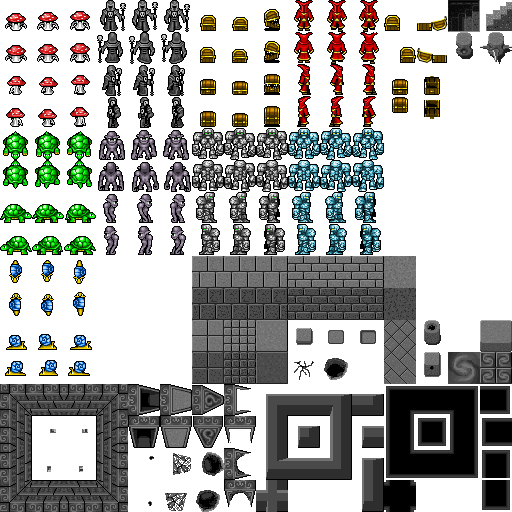
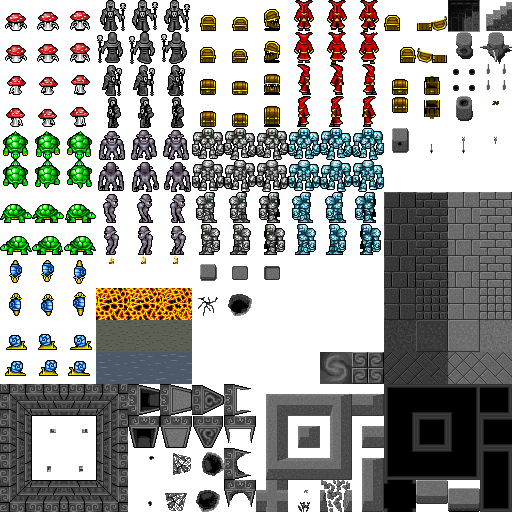
improvements and additions to underworld load

Changed region(s): [[0.1875, 0.375, 1.0, 1.0], [0.875, 0.125, 1.0, 0.25], [0.75, 0.25, 0.8125, 0.3125]]

diff --git a/README.md b/README.md
@@ -8,7 +8,10 @@ Minimal Game Engine for Pygame - More Assumptions, Less Typing
 * Transient effects (remove on animation end)
 * Auto-generate credits
 * Calculate hitboxes
-* for Underworld Load 32px tileset: animated lava, animated floor spikes, water?
+* frame commands
+  * play sound
+  * cause damage
+  * move by vector
 * (~) color key
 * (~) Recoloring
 * (~) Sprite overlays (clothes, weapons, 2-square sprites)
